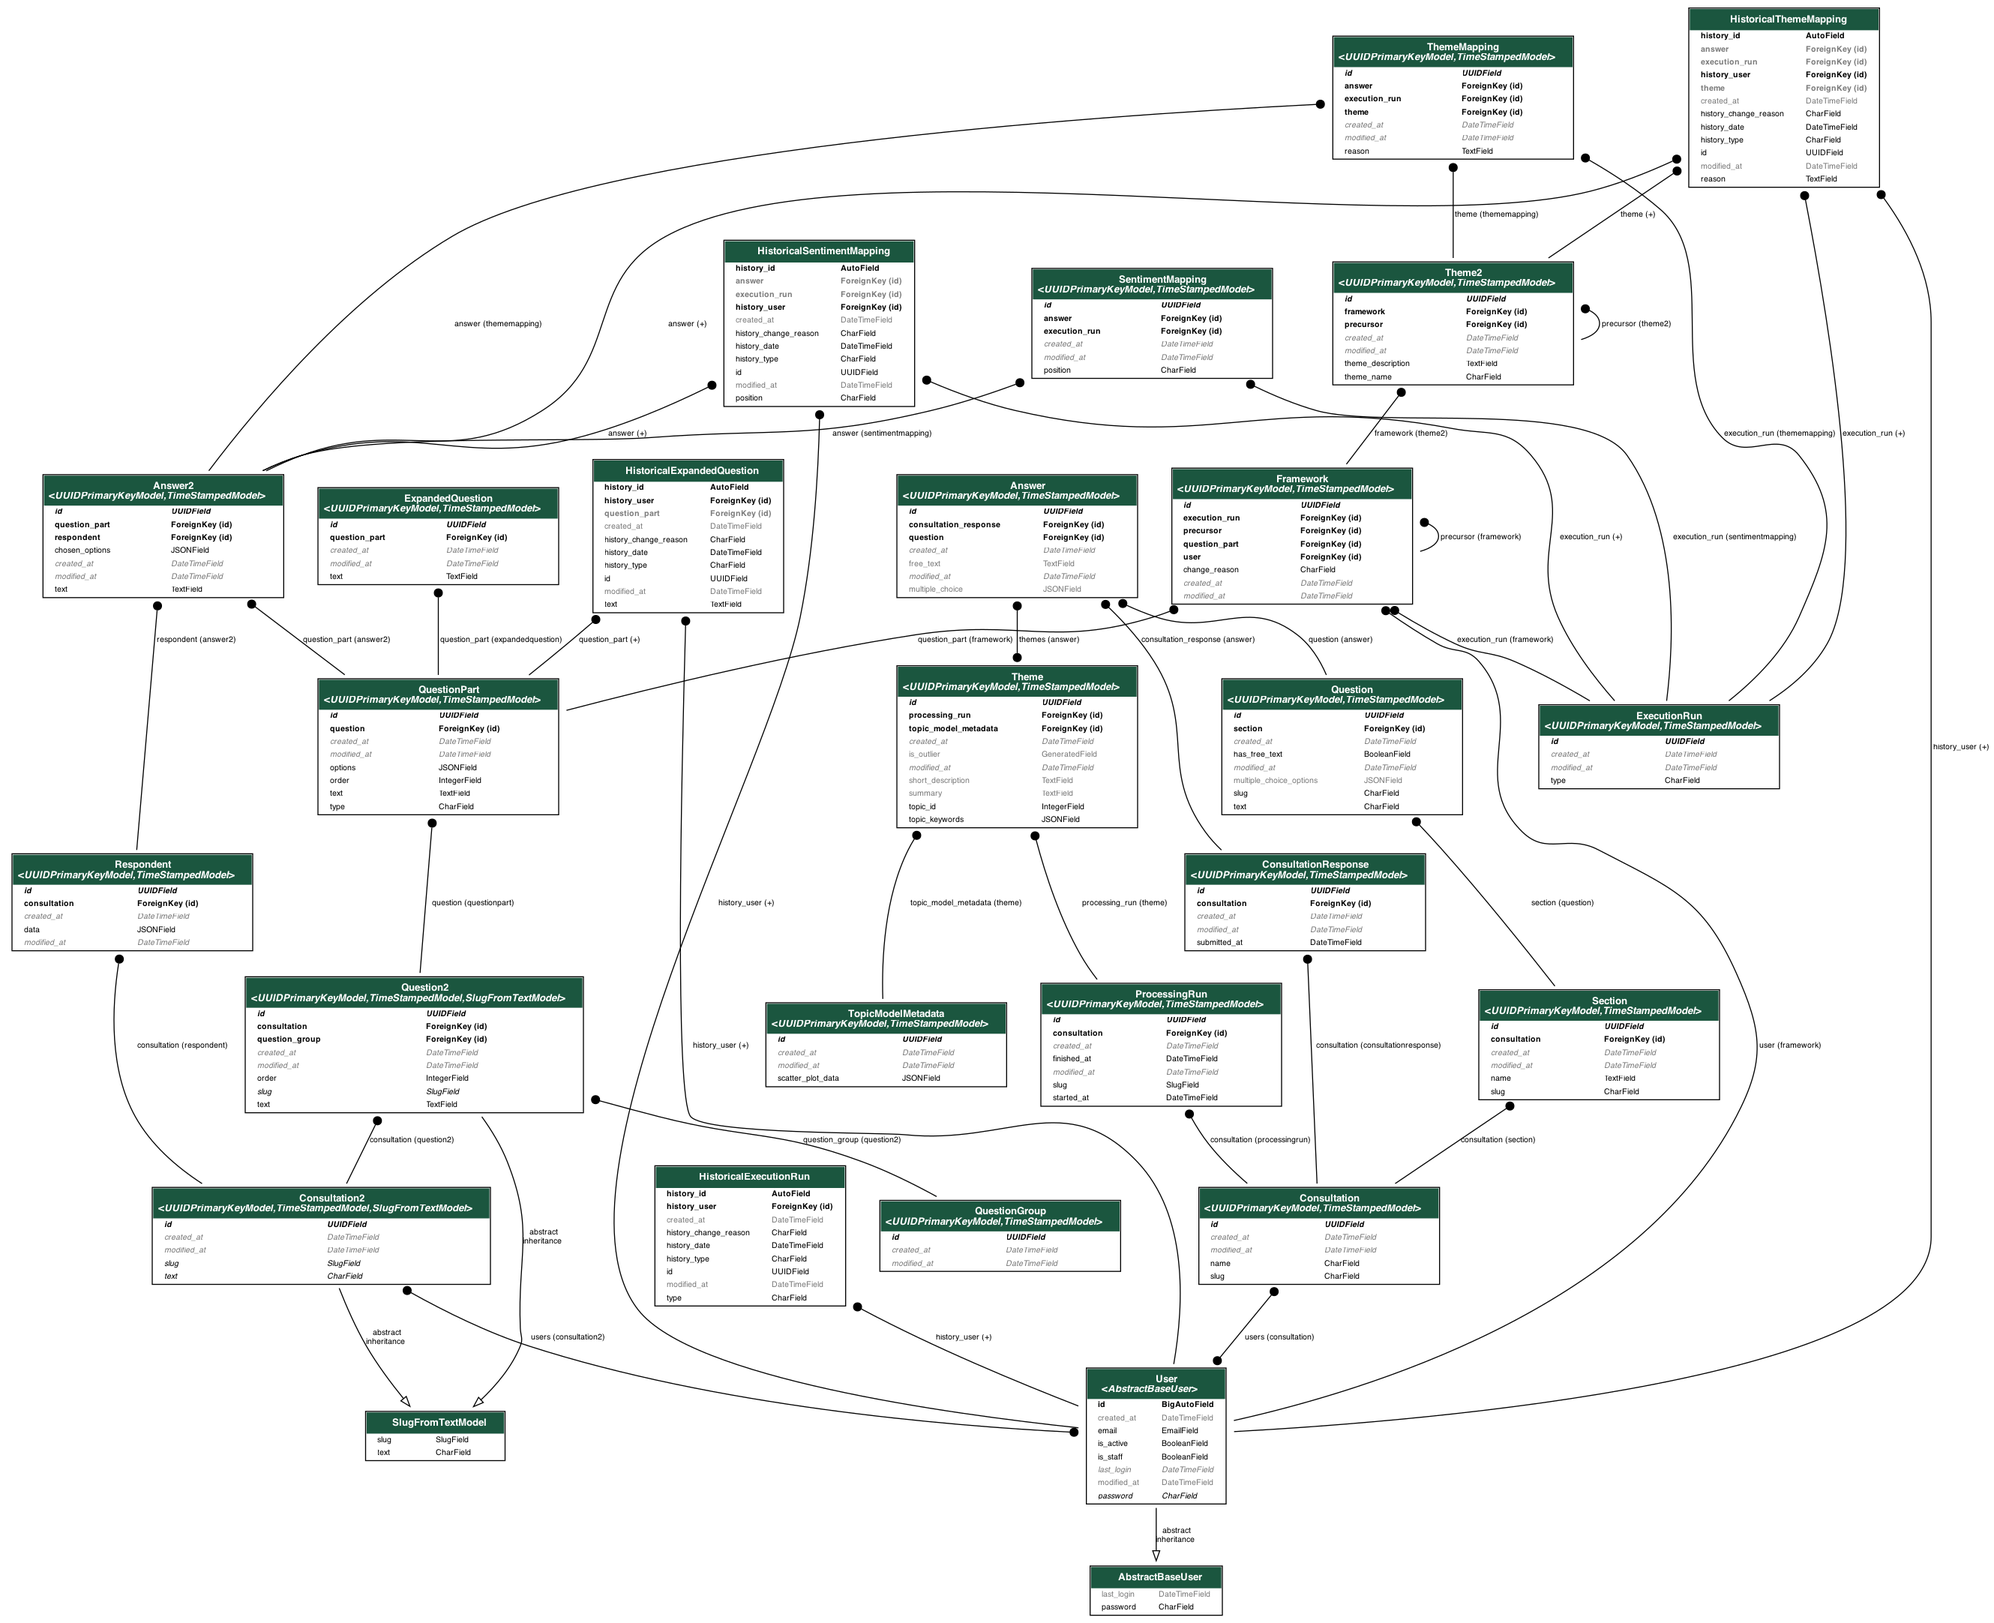
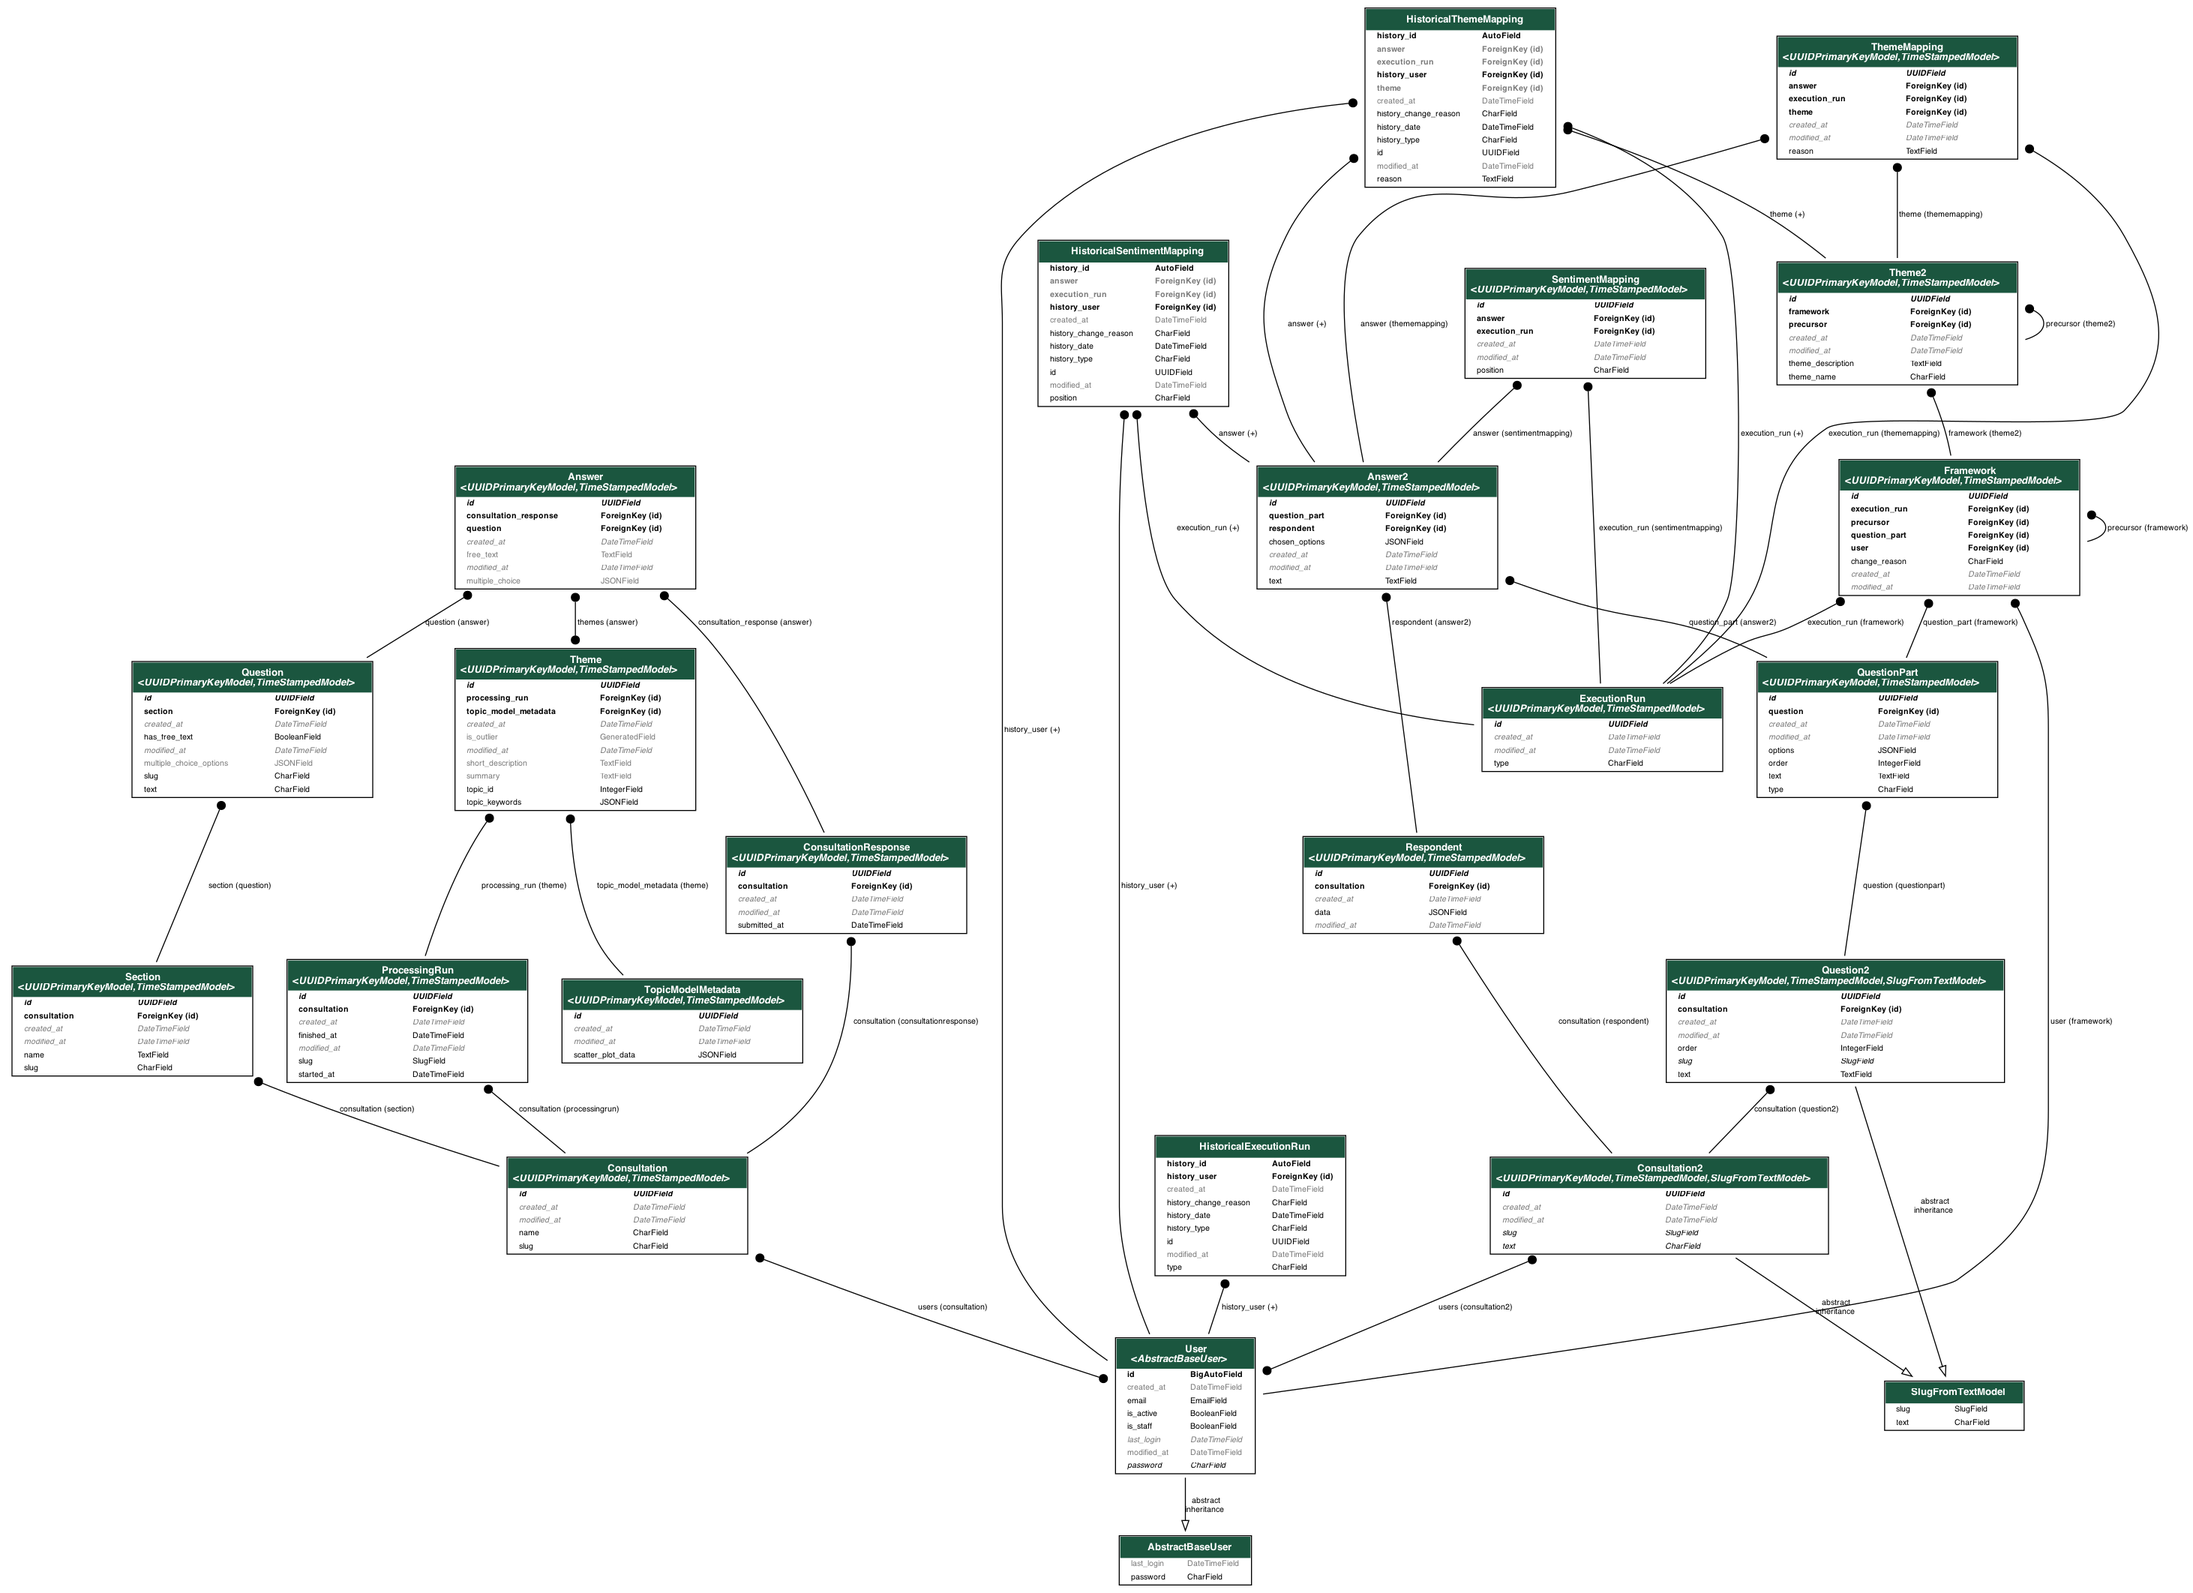
Redo migrations and remove models we aren't using yet

diff --git a/consultation_analyser/consultations/migrations/0027_answer2_executionrun_consultation2_and_more.py b/consultation_analyser/consultations/migrations/0027_answer2_executionrun_consultation2_and_more.py
@@ -1,14 +1,14 @@
-# Generated by Django 5.1.4 on 2024-12-31 10:57
-
-import uuid
+# Generated by Django 5.1.4 on 2025-01-02 17:09
 
 import django.db.models.deletion
 import simple_history.models
+import uuid
 from django.conf import settings
 from django.db import migrations, models
 
 
 class Migration(migrations.Migration):
+
     dependencies = [
         ("consultations", "0026_processingrun_unique_slug_consultation"),
         migrations.swappable_dependency(settings.AUTH_USER_MODEL),
@@ -30,6 +30,7 @@ class Migration(migrations.Migration):
                 ("created_at", models.DateTimeField(auto_now_add=True)),
                 ("modified_at", models.DateTimeField(auto_now=True)),
                 ("text", models.TextField()),
+                ("chosen_options", models.JSONField(default=list)),
             ],
             options={
                 "ordering": ["created_at"],
@@ -68,26 +69,6 @@ class Migration(migrations.Migration):
             },
         ),
         migrations.CreateModel(
-            name="QuestionGroup",
-            fields=[
-                (
-                    "id",
-                    models.UUIDField(
-                        default=uuid.uuid4,
-                        editable=False,
-                        primary_key=True,
-                        serialize=False,
-                    ),
-                ),
-                ("created_at", models.DateTimeField(auto_now_add=True)),
-                ("modified_at", models.DateTimeField(auto_now=True)),
-            ],
-            options={
-                "ordering": ["created_at"],
-                "abstract": False,
-            },
-        ),
-        migrations.CreateModel(
             name="Consultation2",
             fields=[
                 (
@@ -102,7 +83,7 @@ class Migration(migrations.Migration):
                 ("created_at", models.DateTimeField(auto_now_add=True)),
                 ("modified_at", models.DateTimeField(auto_now=True)),
                 ("text", models.CharField(max_length=256)),
-                ("slug", models.SlugField(editable=False)),
+                ("slug", models.SlugField(editable=False, max_length=256)),
                 ("users", models.ManyToManyField(to=settings.AUTH_USER_MODEL)),
             ],
             options={
@@ -171,9 +152,9 @@ class Migration(migrations.Migration):
                     "position",
                     models.CharField(
                         choices=[
-                            ("agree", "Agree"),
-                            ("disagree", "Disagree"),
-                            ("mixed", "Mixed"),
+                            ("Agree", "Agree"),
+                            ("Disagree", "Disagree"),
+                            ("Unclear", "Unclear"),
                         ],
                         max_length=16,
                     ),
@@ -242,22 +223,14 @@ class Migration(migrations.Migration):
                 ),
                 ("created_at", models.DateTimeField(auto_now_add=True)),
                 ("modified_at", models.DateTimeField(auto_now=True)),
-                ("slug", models.SlugField(editable=False)),
+                ("slug", models.SlugField(editable=False, max_length=256)),
                 ("text", models.TextField()),
-                ("order", models.IntegerField()),
+                ("order", models.IntegerField(null=True)),
                 (
                     "consultation",
                     models.ForeignKey(
                         on_delete=django.db.models.deletion.CASCADE,
                         to="consultations.consultation2",
-                    ),
-                ),
-                (
-                    "question_group",
-                    models.ForeignKey(
-                        null=True,
-                        on_delete=django.db.models.deletion.CASCADE,
-                        to="consultations.questiongroup",
                     ),
                 ),
             ],
@@ -292,7 +265,8 @@ class Migration(migrations.Migration):
                         max_length=16,
                     ),
                 ),
-                ("options", models.JSONField(blank=True, default=list)),
+                ("options", models.JSONField(default=list)),
+                ("order", models.IntegerField(null=True)),
                 (
                     "question",
                     models.ForeignKey(
@@ -305,55 +279,6 @@ class Migration(migrations.Migration):
                 "ordering": ["created_at"],
                 "abstract": False,
             },
-        ),
-        migrations.CreateModel(
-            name="HistoricalExpandedQuestion",
-            fields=[
-                (
-                    "id",
-                    models.UUIDField(db_index=True, default=uuid.uuid4, editable=False),
-                ),
-                ("created_at", models.DateTimeField(blank=True, editable=False)),
-                ("modified_at", models.DateTimeField(blank=True, editable=False)),
-                ("text", models.TextField()),
-                ("history_id", models.AutoField(primary_key=True, serialize=False)),
-                ("history_date", models.DateTimeField(db_index=True)),
-                ("history_change_reason", models.CharField(max_length=100, null=True)),
-                (
-                    "history_type",
-                    models.CharField(
-                        choices=[("+", "Created"), ("~", "Changed"), ("-", "Deleted")],
-                        max_length=1,
-                    ),
-                ),
-                (
-                    "history_user",
-                    models.ForeignKey(
-                        null=True,
-                        on_delete=django.db.models.deletion.SET_NULL,
-                        related_name="+",
-                        to=settings.AUTH_USER_MODEL,
-                    ),
-                ),
-                (
-                    "question_part",
-                    models.ForeignKey(
-                        blank=True,
-                        db_constraint=False,
-                        null=True,
-                        on_delete=django.db.models.deletion.DO_NOTHING,
-                        related_name="+",
-                        to="consultations.questionpart",
-                    ),
-                ),
-            ],
-            options={
-                "verbose_name": "historical expanded question",
-                "verbose_name_plural": "historical expanded questions",
-                "ordering": ("-history_date", "-history_id"),
-                "get_latest_by": ("history_date", "history_id"),
-            },
-            bases=(simple_history.models.HistoricalChanges, models.Model),
         ),
         migrations.CreateModel(
             name="Framework",
@@ -371,6 +296,14 @@ class Migration(migrations.Migration):
                 ("modified_at", models.DateTimeField(auto_now=True)),
                 ("change_reason", models.CharField(max_length=256)),
                 (
+                    "execution_run",
+                    models.ForeignKey(
+                        null=True,
+                        on_delete=django.db.models.deletion.CASCADE,
+                        to="consultations.executionrun",
+                    ),
+                ),
+                (
                     "precursor",
                     models.ForeignKey(
                         null=True,
@@ -385,34 +318,6 @@ class Migration(migrations.Migration):
                         to=settings.AUTH_USER_MODEL,
                     ),
                 ),
-                (
-                    "question_part",
-                    models.ForeignKey(
-                        on_delete=django.db.models.deletion.CASCADE,
-                        to="consultations.questionpart",
-                    ),
-                ),
-            ],
-            options={
-                "ordering": ["created_at"],
-                "abstract": False,
-            },
-        ),
-        migrations.CreateModel(
-            name="ExpandedQuestion",
-            fields=[
-                (
-                    "id",
-                    models.UUIDField(
-                        default=uuid.uuid4,
-                        editable=False,
-                        primary_key=True,
-                        serialize=False,
-                    ),
-                ),
-                ("created_at", models.DateTimeField(auto_now_add=True)),
-                ("modified_at", models.DateTimeField(auto_now=True)),
-                ("text", models.TextField()),
                 (
                     "question_part",
                     models.ForeignKey(
@@ -488,9 +393,9 @@ class Migration(migrations.Migration):
                     "position",
                     models.CharField(
                         choices=[
-                            ("agree", "Agree"),
-                            ("disagree", "Disagree"),
-                            ("mixed", "Mixed"),
+                            ("Agree", "Agree"),
+                            ("Disagree", "Disagree"),
+                            ("Unclear", "Unclear"),
                         ],
                         max_length=16,
                     ),
@@ -531,13 +436,6 @@ class Migration(migrations.Migration):
                 ("modified_at", models.DateTimeField(auto_now=True)),
                 ("theme_name", models.CharField(max_length=256)),
                 ("theme_description", models.TextField()),
-                (
-                    "execution_run",
-                    models.ForeignKey(
-                        on_delete=django.db.models.deletion.CASCADE,
-                        to="consultations.executionrun",
-                    ),
-                ),
                 (
                     "framework",
                     models.ForeignKey(
@@ -674,7 +572,9 @@ class Migration(migrations.Migration):
         ),
         migrations.AddConstraint(
             model_name="consultation2",
-            constraint=models.UniqueConstraint(fields=("slug",), name="unique_consult_slug"),
+            constraint=models.UniqueConstraint(
+                fields=("slug",), name="unique_consult_slug"
+            ),
         ),
         migrations.AddConstraint(
             model_name="question2",

diff --git a/consultation_analyser/consultations/models.py b/consultation_analyser/consultations/models.py
@@ -382,18 +382,13 @@ class Consultation2(UUIDPrimaryKeyModel, TimeStampedModel, SlugFromTextModel):
         ]
 
 
-class QuestionGroup(UUIDPrimaryKeyModel, TimeStampedModel):
-    """Model to group question together for display."""
-
-    class Meta(UUIDPrimaryKeyModel.Meta, TimeStampedModel.Meta):
-        pass
+# TODO - add QuestionGroup - to aggregate questions that should appear together
 
 
 class Question2(UUIDPrimaryKeyModel, TimeStampedModel, SlugFromTextModel):
     text = models.TextField()
     consultation = models.ForeignKey(Consultation2, on_delete=models.CASCADE)
     order = models.IntegerField(null=True)
-    question_group = models.ForeignKey(QuestionGroup, on_delete=models.CASCADE, null=True)
 
     class Meta(UUIDPrimaryKeyModel.Meta, TimeStampedModel.Meta, SlugFromTextModel.Meta):
         constraints = [
@@ -417,14 +412,7 @@ class QuestionPart(UUIDPrimaryKeyModel, TimeStampedModel):
         pass
 
 
-class ExpandedQuestion(UUIDPrimaryKeyModel, TimeStampedModel):
-    question_part = models.ForeignKey(QuestionPart, on_delete=models.CASCADE)
-    text = models.TextField()
-
-    history = HistoricalRecords()
-
-    class Meta(UUIDPrimaryKeyModel.Meta, TimeStampedModel.Meta):
-        pass
+# TODO - add ExpandedQuestionPart
 
 
 class Respondent(UUIDPrimaryKeyModel, TimeStampedModel):
@@ -509,9 +497,9 @@ class ThemeMapping(UUIDPrimaryKeyModel, TimeStampedModel):
 
 class SentimentMapping(UUIDPrimaryKeyModel, TimeStampedModel):
     class PositionType(models.TextChoices):
-        AGREE = "agree"
-        DISAGREE = "disagree"
-        MIXED = "mixed"
+        AGREE = "Agree"
+        DISAGREE = "Disagree"
+        UNCLEAR = "Unclear"
 
     answer = models.ForeignKey(Answer2, on_delete=models.CASCADE)
     execution_run = models.ForeignKey(ExecutionRun, on_delete=models.CASCADE)

diff --git a/consultation_analyser/factories2.py b/consultation_analyser/factories2.py
@@ -29,10 +29,6 @@ class Consultation2Factory(DjangoModelFactory):
     users = factory.RelatedFactoryList(UserFactory, factory_related_name="consultation", size=3)
 
 
-class QuestionGroupFactory(DjangoModelFactory):
-    class Meta:
-        model = models.QuestionGroup
-
 
 class Question2Factory(DjangoModelFactory):
     class Meta:
@@ -41,7 +37,6 @@ class Question2Factory(DjangoModelFactory):
     text = factory.LazyAttribute(lambda o: fake.sentence())
     consultation = factory.SubFactory(Consultation2Factory)
     order = factory.LazyAttribute(lambda n: random.randint(1, 10))
-    question_group = None
 
 
 # TODO -  all free-text for now, can add to this in future
@@ -52,15 +47,6 @@ class QuestionPartFactory(DjangoModelFactory):
     question = factory.SubFactory(Question2Factory)
     text = factory.LazyAttribute(lambda o: fake.sentence())
     type = models.QuestionPart.QuestionType.FREE_TEXT
-
-
-class ExpandedQuestionFactory(DjangoModelFactory):
-    class Meta:
-        model = models.ExpandedQuestion
-
-    question_part = factory.SubFactory(QuestionPartFactory)
-    text = factory.LazyAttribute(lambda o: fake.sentence())
-    # TODO - actually the text probably comes from the question part and question
 
 
 class RespondentFactory(DjangoModelFactory):

diff --git a/tests/unit/models/test_factories.py b/tests/unit/models/test_factories.py
@@ -13,10 +13,8 @@ def test_factories():
     # just check nothing fails
     factories2.UserFactory()
     factories2.Consultation2Factory()
-    factories2.QuestionGroupFactory()
     factories2.Question2Factory()
     factories2.QuestionPartFactory()
-    factories2.ExpandedQuestionFactory()
     factories2.RespondentFactory()
     factories2.Answer2Factory()
     factories2.ExecutionRunFactory()
